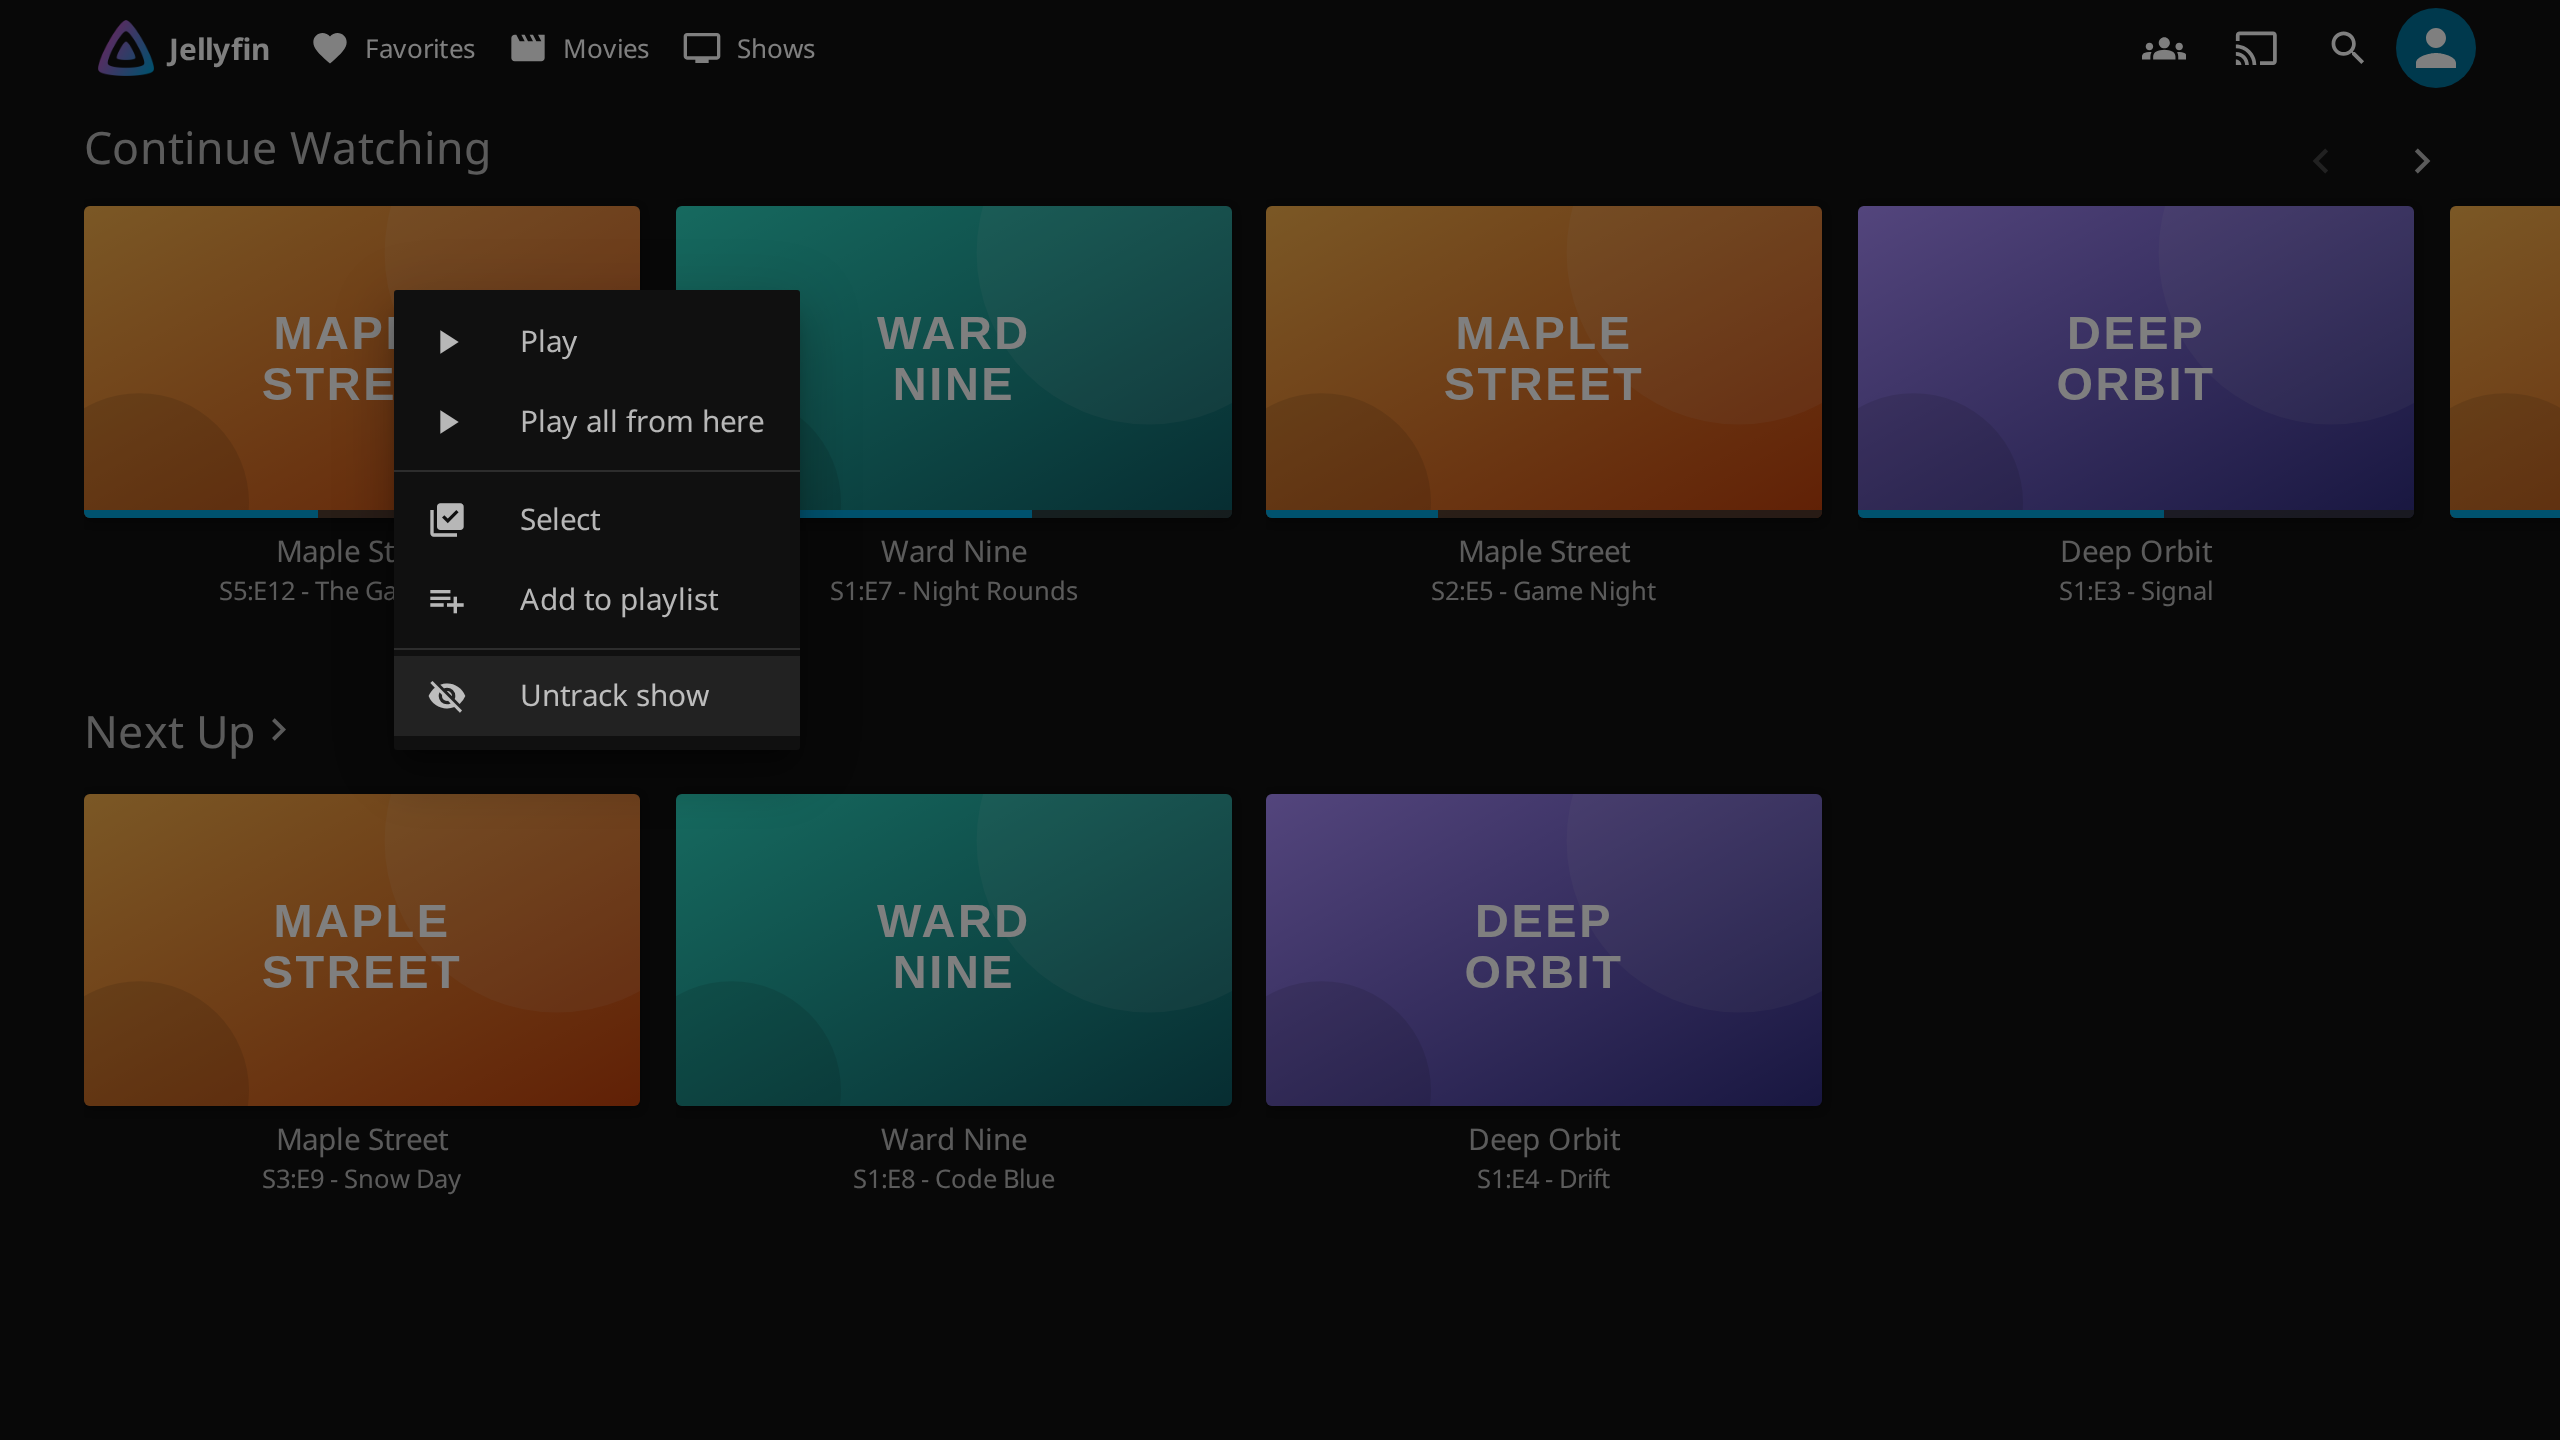
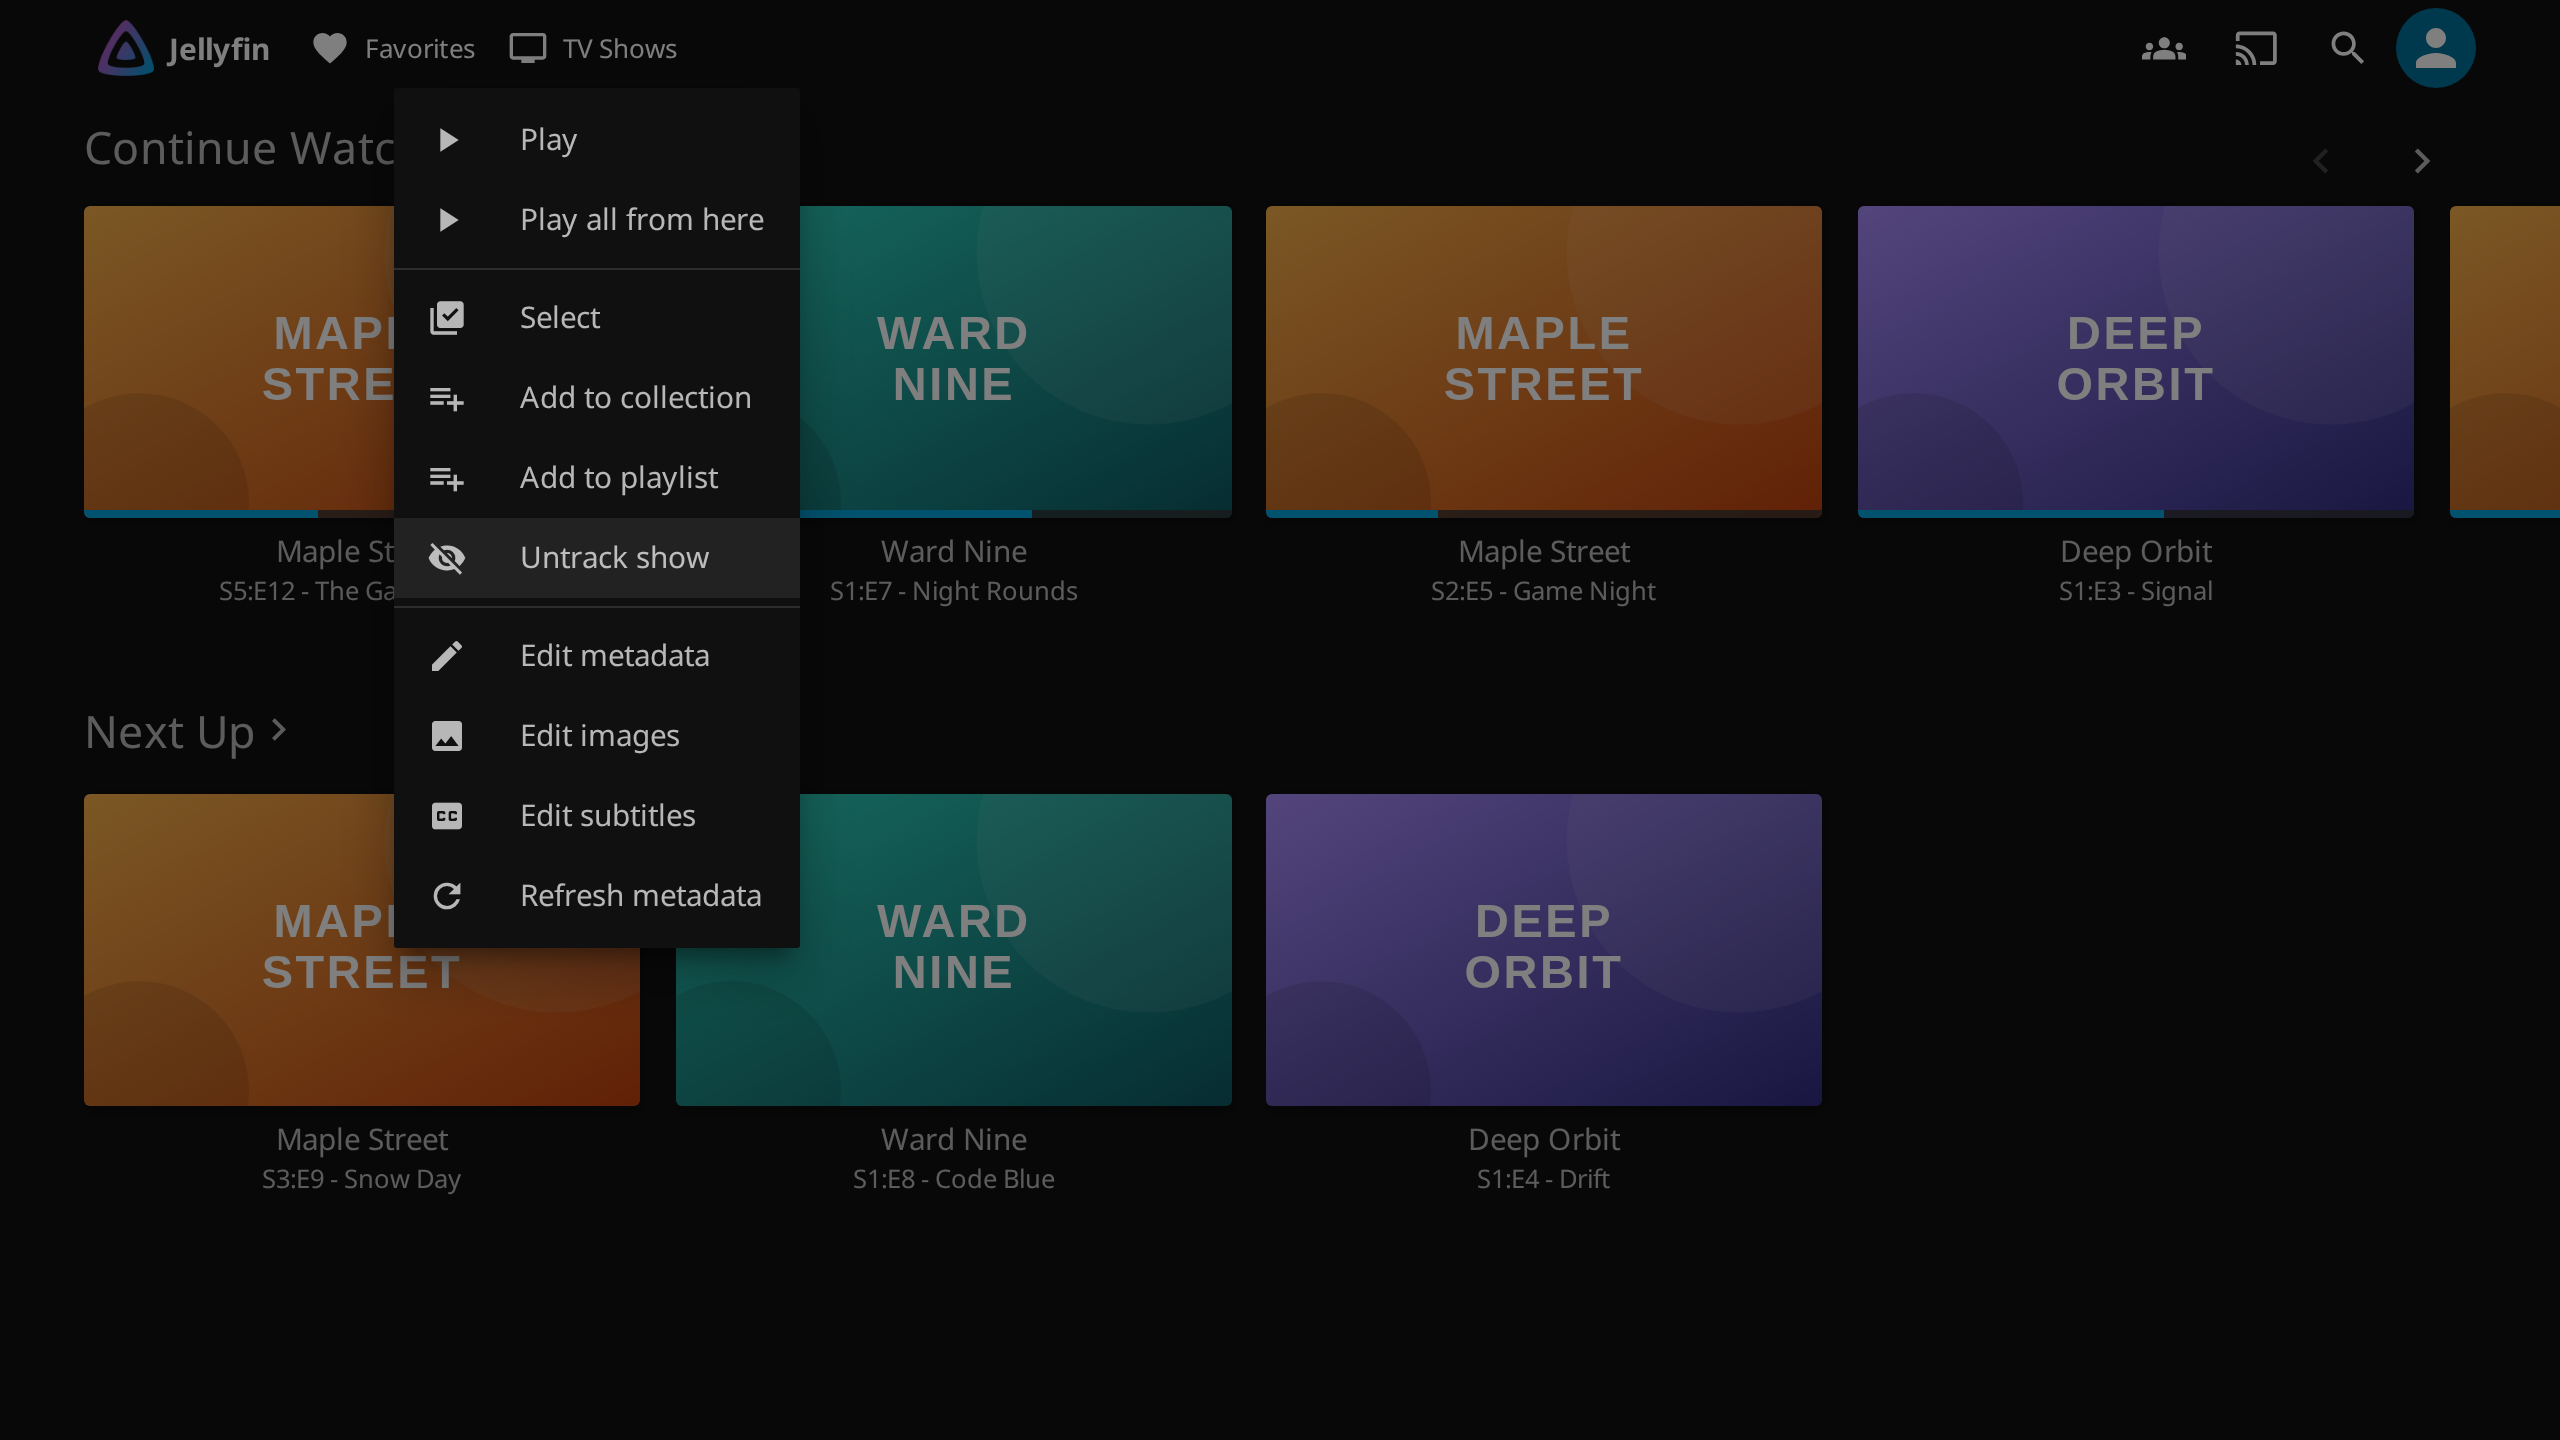
docs: show untrack's new place in the menu and when it appears

Changed region(s): [[0.1562, 0.0938, 0.3125, 0.6875], [0.1875, 0.0, 0.3125, 0.0625]]

diff --git a/CHANGELOG.md b/CHANGELOG.md
@@ -6,6 +6,17 @@ the plugin catalog.
 
 ## [Unreleased]
 
+### Changed
+
+- **Untrack show** only appears for shows you've watched or started, since untracking any other show does nothing.
+- **Untrack show** sits with the other actions for you (Select, Add to playlist) instead of at the bottom of the menu,
+  below the admin items.
+
+### Fixed
+
+- File Transformation also hands some of jellyfin-web's script files to the plugin. The plugin now leaves them alone
+  instead of looking for a `</body>` in them.
+
 ## [1.0.3.0] – 2026-11-02
 
 ### Added

diff --git a/README.md b/README.md
@@ -32,7 +32,8 @@ https://www.iamparadox.dev/jellyfin/plugins/manifest.json
 
 ## Use
 
-Open the **⋮** menu of a show, season or episode, pick **Untrack show** and confirm.
+Open the **⋮** menu of a show, season or episode, pick **Untrack show** and confirm. It only appears for shows you've
+watched or started.
 
 Untracking marks every episode of the show unwatched, for you only. To bring the show back, play any episode. Tools
 that delete unwatched media will treat an untracked show as unwatched.
